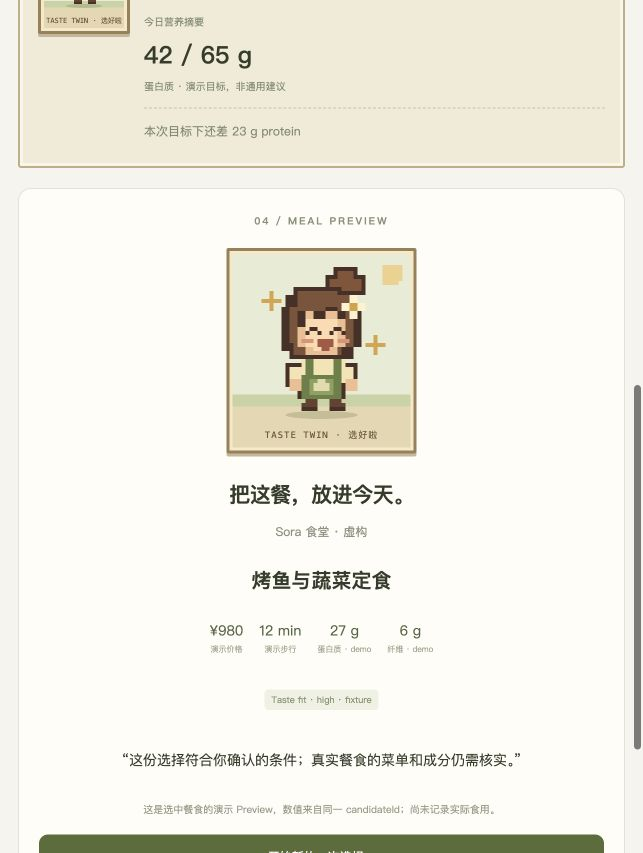
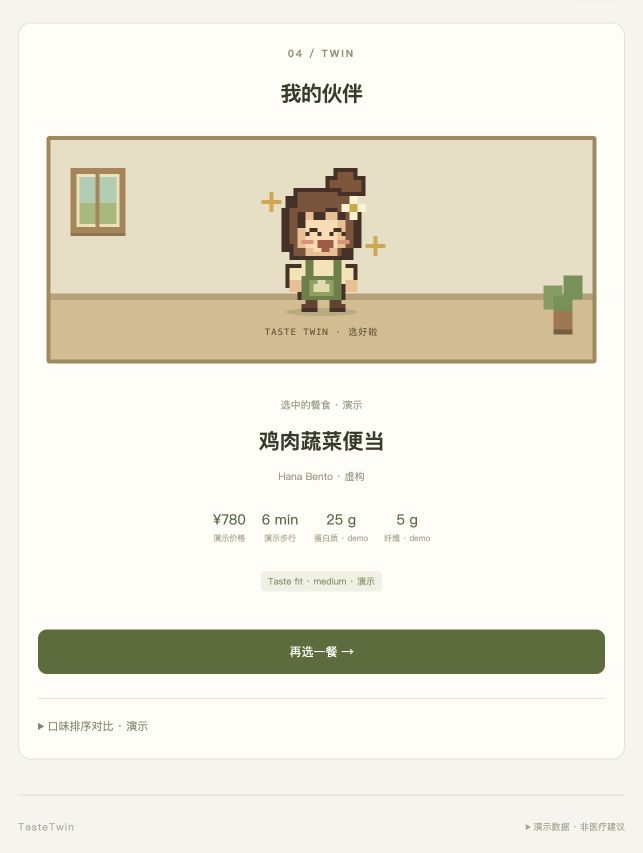
Replace guided landing with four interactive sections and concise product UI

diff --git a/apps/web/src/App.tsx b/apps/web/src/App.tsx
@@ -1,4 +1,4 @@
-import {useState, useRef} from 'react';
+import {useState, useRef, useEffect} from 'react';
 import {api} from './api';
 import type {ApiError, Interpretation, Results, Selection, Stage, Constraints} from './types';
 import MealRow, {MealFacts} from './components/MealRow';
@@ -10,6 +10,8 @@ function chips(c: Constraints) {
  return [...c.cuisines, ...c.ambience, ...(c.partySize ? [`${c.partySize} 人`] : []), ...(c.budgetMax ? [`≤ ${c.budgetMax} ${c.currency || '?'}`] : []), ...(c.maxWalkMinutes ? [`≤ ${c.maxWalkMinutes} min`] : []), ...(c.excludeSpicy ? ['不要辣'] : []), ...c.allergens.map(x=>`排除 ${x}`)];
 }
 export default function App() {
+ const [view,setView]=useState<'home'|'profile'|'today'|'discover'|'twin'>('home');
+ const [saved,setSaved]=useState('');
  const [sessionId,setSessionId]=useState(()=>crypto.randomUUID());
  const [message,setMessage]=useState(example);
  const [city,setCity]=useState('Tokyo');
@@ -55,31 +57,53 @@ export default function App() {
   await run('REFINING','REFINED',async()=>{setResults(await api<Results>('/api/refine',{sessionId,refinement:text}));setRefinement('');},()=>void refine(text));
  }
  async function select(candidateId: string) {
-  await run('SEARCHING','SELECTED',async()=>setSelection(await api<Selection>('/api/select',{sessionId,candidateId})),()=>void select(candidateId));
+  await run('SEARCHING','SELECTED',async()=>{setSelection(await api<Selection>('/api/select',{sessionId,candidateId}));setView('twin');},()=>void select(candidateId));
  }
  async function reset() {
   await run(stage,'START',async()=>{
     await api(`/api/sessions/${sessionId}`,undefined,'DELETE');
-    setSessionId(crypto.randomUUID());setParsed(null);setResults(null);setSelection(null);setRefinement('');setMessage(example);setCity('Tokyo');setAllergens('');setSummaryMode('fixture');setActual('42');setTarget('65');setEnabled(true);
+    setView('home');setSaved('');setSessionId(crypto.randomUUID());setParsed(null);setResults(null);setSelection(null);setRefinement('');setMessage(example);setCity('Tokyo');setAllergens('');setSummaryMode('fixture');setActual('42');setTarget('65');setEnabled(true);
   },()=>void reset());
  }
- const step=stage==='SELECTED'?4:['RESULTS','REFINED','REFINING'].includes(stage)?3:stage==='CONFIRM'||stage==='SEARCHING'?2:1;
- return <div className="shell">
-  <header className="topbar"><a className="brand" href="#top"><span className="brand-icon">✿</span>Taste<span>Twin</span><small>YOUR NEXT MEAL, MORE YOU.</small></a><div className="header-actions"><span className="mode">● {mode==='baseline'?'WITHOUT QLOO · FIXTURE CANDIDATES':'DESIGN PROTOTYPE · QLOO FIXTURE'}</span><button className="text-button" disabled={busy} onClick={()=>void reset()}>重新开始 ↺</button></div></header>
-  <main id="top">
-   <section className="hero"><div className="hero-copy"><p className="eyebrow">NUTRITION MATCH × TASTE MATCH</p><h1>下一餐，<br/>更合你的<span>心意。</span></h1><p className="intro">把今天想吃的、需要补充的，<br/>和愿意走的距离，放在同一次选择里。</p><a href="#flow" className="hero-link">从一句话开始 <span>↓</span></a><div className="hero-note">框架预览 · React + FastAPI<br/>Qloo 与 Agent 框架尚未连接</div></div><div className="hero-art"><img src="/tastetwin-hero.png" alt="TasteTwin 像素厨房中的数字伙伴与餐食"/><span className="art-caption">A small choice. A little closer to you.</span></div></section>
-   <div className="prototype-warning" role="note"><span>DEMO DATA</span><p>所有餐厅、菜单、营养、价格、步行与口味排序均为虚构 fixture。这个版本用于验证框架，尚不能作为真实 Qloo 集成提交。</p></div>
-   <nav className="steps" aria-label="流程进度">{['说说需求','确认条件','挑选下一餐','餐食 Preview'].map((label,i)=><div className={step===i+1?'active':''} aria-current={step===i+1?'step':undefined} key={label}><span>0{i+1}</span>{label}</div>)}</nav>
-   <div className="workspace" id="flow"><aside className="companion"><PixelTwin state={stage==='SELECTED'?'happy':busy?'thinking':'idle'}/><p className="eyebrow">YOUR TASTE COMPANION</p><h2>{stage==='SELECTED'?'选好啦。':'先找到，你愿意吃的一餐。'}</h2><p>{selection?.twinMessage || '先确认你的条件，再按营养、演示口味信号和便利性比较。未知数据会如实显示。'}</p><div className="sidebar-divider"/><small>今日营养摘要</small><strong>{summaryMode==='none'?'尚未提供':`${summaryMode==='fixture'?'42':actual} / ${summaryMode==='fixture'?'65':target} g`}</strong><p className="caption">蛋白质 · {summaryMode==='fixture'?'演示目标，非通用建议':summaryMode==='manual'?'用户手动输入':'仍可按口味和地点搜索'}</p>{parsed&&<p className="gap">{parsed.nutritionGap.level==='unavailable'?'营养缺口不可用':parsed.nutritionGap.nutrient==='none'?'接近本次配置目标':`本次目标下还差 ${parsed.nutritionGap.missingAmount} ${parsed.nutritionGap.unit} ${parsed.nutritionGap.nutrient}`}</p>}</aside>
-    <section className="flow-content" aria-live="polite">
-     {error&&<div className="error" role="alert"><strong>{error.message}</strong><small>{error.code} {error.requestId}</small><div>{error.retryable&&<button disabled={busy} onClick={()=>retry.current?.()}>重试</button>}<button disabled={busy} onClick={()=>{setError(null);setStage('START');}}>修改输入</button></div></div>}
-     {(stage==='START'||stage==='PARSING')&&<section className="panel"><p className="eyebrow">01 / TELL US WHAT YOU NEED</p><h2>今天，想吃点什么？</h2><p className="muted">菜系、预算、氛围和距离，都可以写在一句话里。</p><form onSubmit={e=>{e.preventDefault();void interpret();}}><label htmlFor="message">你的需求</label><textarea id="message" rows={4} value={message} maxLength={500} onChange={e=>setMessage(e.target.value)} disabled={busy} onKeyDown={e=>{if(e.key==='Enter'&&!e.shiftKey){e.preventDefault();void interpret();}}}/><div className="input-bottom"><button type="button" className="text-button" disabled={busy} onClick={()=>setMessage(example)}>使用示例句</button><small>{message.length}/500 · Shift + Enter 换行</small></div><div className="form-grid"><div><label htmlFor="city">搜索区域</label><input id="city" value={city} onChange={e=>setCity(e.target.value)} maxLength={80} disabled={busy}/><small>fixture 仅覆盖 Tokyo 虚构场景</small></div><div><label htmlFor="allergens">过敏原代码（逗号分隔）</label><input id="allergens" placeholder="例如 peanut, soy" value={allergens} onChange={e=>setAllergens(e.target.value)} disabled={busy}/><small>未知成分在有过敏限制时被排除</small></div></div><details className="nutrition-input"><summary>营养摘要与目标来源</summary><label htmlFor="summary">选择数据来源</label><select id="summary" value={summaryMode} onChange={e=>setSummaryMode(e.target.value as typeof summaryMode)} disabled={busy}><option value="fixture">Demo fixture：蛋白质 42 / 65 g</option><option value="manual">手动输入蛋白质日汇总</option><option value="none">暂不提供营养数据</option></select>{summaryMode==='manual'&&<div className="form-grid"><div><label htmlFor="actual">今日摄入（g）</label><input id="actual" type="number" min="0" step="any" value={actual} onChange={e=>setActual(e.target.value)} disabled={busy}/></div><div><label htmlFor="target">你的配置目标（g）</label><input id="target" type="number" min="0.01" step="any" value={target} onChange={e=>setTarget(e.target.value)} disabled={busy}/></div></div>}</details><button className="primary" disabled={busy||!message.trim()}>{stage==='PARSING'?'解析中…':'Ask TasteTwin →'}</button></form></section>}
-     {stage==='CONFIRM'&&parsed&&<section className="panel"><p className="eyebrow">02 / CHECK THE DETAILS</p><h2>我们理解得对吗？</h2><p className="confirmation">{parsed.confirmationText}</p><div className="chips">{chips(parsed.constraints).map(x=><span key={x}>{x}</span>)}</div><p className="caption">{parsed.notice}</p>{parsed.needsClarification&&<p className="clarification">{parsed.clarificationQuestion}。点「修改输入」补充后重新解析。</p>}<div className="actions"><button className="primary" disabled={busy||parsed.needsClarification} onClick={()=>void recommend()}>确认并查找 →</button><button disabled={busy} onClick={()=>setStage('START')}>修改输入</button></div></section>}
-     {(stage==='SEARCHING'||stage==='REFINING')&&<div className="loading" role="status"><PixelTwin state="thinking"/><h2>{stage==='REFINING'?'重新应用你的条件…':'正在处理…'}</h2><p>营养计算 · 成分过滤 · fixture 匹配 · 排序</p></div>}
-     {results&&['RESULTS','REFINED'].includes(stage)&&<section className="panel result-panel"><div className="result-heading"><div><p className="eyebrow">03 / YOUR NEXT MEAL</p><h2>{results.recommendations.length} 个可比较的选择</h2></div><label className="toggle"><input type="checkbox" checked={enabled} disabled={busy} onChange={e=>void recommend(e.target.checked)}/><span>演示口味信号 {enabled?'ON':'OFF'}</span></label></div><p className="caption">这是 fixture 的同候选集重排，用于预演未来的 Qloo ON / OFF 功能。</p><div className="chips">{activeConstraints&&chips(activeConstraints).map(x=><span key={x}>{x}</span>)}</div><div className="trace">{results.trace.map((x,i)=><span key={x.tool}>{i+1}. {x.tool} ✓</span>)}</div>{results.recommendations.length?results.recommendations.map(item=><MealRow key={item.candidateId} item={item} disabled={busy} onSelect={id=>void select(id)}/>):<div className="empty"><h3>还没有合适选项</h3><p>{results.emptyMessage}</p><button onClick={()=>setStage('START')} disabled={busy}>修改预算或距离</button></div>}<div className="refinement"><h3>再调整一下？</h3><div className="quick-actions">{['再近一点','更便宜','不要辣'].map(x=><button key={x} disabled={busy} onClick={()=>void refine(x)}>{x} ↗</button>)}</div><form onSubmit={e=>{e.preventDefault();void refine();}}><label className="sr-only" htmlFor="refinement">修正需求</label><input id="refinement" value={refinement} maxLength={200} placeholder="框架版支持：再近一点、更便宜、不要辣" disabled={busy} onChange={e=>setRefinement(e.target.value)}/><button disabled={busy||!refinement.trim()}>更新结果 →</button></form>{results.appliedChanges.length>0&&<p className="caption">已应用：{results.appliedChanges.map(x=>`${x.field}: ${String(x.from)} → ${String(x.to)}`).join('；')}</p>}</div><details className="judge"><summary>查看框架与同候选集比较</summary><p>{results.comparison.label}</p><p>ON：{results.comparison.withTaste.join(' → ')}</p><p>OFF：{results.comparison.withoutTaste.join(' → ')}</p><p>React → FastAPI → nutrition / safety / fixture adapter / ranker。当前规则工具轨迹不代表已接入 Agent 框架。</p></details></section>}
-     {stage==='SELECTED'&&selection&&<section className="panel preview"><p className="eyebrow">04 / MEAL PREVIEW</p><PixelTwin state="happy"/><h2>把这餐，放进今天。</h2><p className="muted">{selection.recommendation.placeName}</p><h3>{selection.recommendation.menuName}</h3><MealFacts item={selection.recommendation}/><p className="taste">Taste fit · {selection.recommendation.tasteFit} · fixture</p><p className="twin-message">“{selection.twinMessage}”</p><p className="caption">这是选中餐食的演示 Preview，数值来自同一 candidateId；尚未记录实际食用。</p><button className="primary" disabled={busy} onClick={()=>void reset()}>开始新的一次选择 ↺</button></section>}
-    </section></div>
-   <footer><strong>TasteTwin</strong><p>一般饮食与偏好辅助，不诊断疾病。演示会话仅保存在后端单进程内存中，1 小时过期；重新开始会删除会话。页面刷新不恢复输入。健康和过敏数据不会发给 Qloo；当前未调用外部 AI 服务。</p><span>LOCAL FRAMEWORK · v0.1</span></footer>
+
+ useEffect(()=>{window.scrollTo({top:0,behavior:'auto'});},[view]);
+ useEffect(()=>{setParsed(null);setResults(null);setSelection(null);setStage('START');},[city,allergens,summaryMode,actual,target]);
+ function saveSettings() {
+   if(summaryMode==='manual'&&(!actual.trim()||!target.trim()||!Number.isFinite(Number(actual))||!Number.isFinite(Number(target))||Number(actual)<0||Number(target)<=0)) {
+     setError({code:'VALIDATION_ERROR',message:'摄入须为非负数，目标须大于 0',retryable:false});return false;
+   }
+   setParsed(null);setResults(null);setSelection(null);setStage('START');setError(null);setSaved('已更新');return true;
+ }
+ const areas = [
+  {id:'profile' as const,num:'01',title:'你的口味',english:'YOU',icon:'sprout',hint:'偏好 · 地点'},
+  {id:'today' as const,num:'02',title:'今天的餐',english:'TODAY',icon:'bowl',hint:'摄入 · 营养'},
+  {id:'discover' as const,num:'03',title:'下一餐去哪里',english:'DISCOVER',icon:'map',hint:'搜索 · 推荐'},
+  {id:'twin' as const,num:'04',title:'我的伙伴',english:'TWIN',icon:'heart',hint:'小人 · 餐食预览'},
+ ];
+ function openArea(id: typeof view) {setView(id);setSaved('');setError(null);}
+ const errorPanel = error&&<div className="error" role="alert"><strong>{error.message}</strong><small>{error.code} {error.requestId}</small><div>{error.retryable&&<button disabled={busy} onClick={()=>retry.current?.()}>重试</button>}<button disabled={busy} onClick={()=>{setError(null);setStage('START');setView('discover');}}>修改需求</button></div></div>;
+ return <div className="shell interactive-shell">
+  <header className="topbar"><button className="brand brand-home" onClick={()=>openArea('home')} disabled={busy} aria-label="返回主界面"><span className="brand-icon">✿</span>Taste<span>Twin</span></button><div className="header-actions"><details className="data-status"><summary className="mode">● 演示数据{mode==='baseline'?' · 口味 OFF':''}</summary><div>餐厅、菜单、营养、价格、步行与口味信号均为虚构数据。Qloo 暂未连接。</div></details><button className="text-button" disabled={busy} onClick={()=>void reset()}>重置 ↺</button></div></header>
+  <main>
+   {view==='home'?<>
+    <section className="hero home-hero"><div className="hero-copy"><p className="eyebrow">NUTRITION MATCH × TASTE MATCH</p><h1>下一餐，<br/>更合你的<span>心意。</span></h1><p className="home-tagline">和你的伙伴，一起选餐。</p><button className="hero-start" onClick={()=>openArea('discover')}>找下一餐 ↗</button></div><div className="hero-art"><img src="/tastetwin-hero.png" alt="TasteTwin 像素厨房"/></div></section>
+    <nav className="area-cards" aria-label="四个功能区">{areas.map(area=><button key={area.id} className="area-card" onClick={()=>openArea(area.id)}><span className="area-number">{area.num} / {area.english}</span><span className={`pixel-area-icon pixel-area-icon--${area.icon}`} aria-hidden="true"/><h2>{area.title}</h2><span className="area-hint">{area.hint}</span><span className="area-arrow" aria-hidden="true">↗</span></button>)}</nav>
+   </>:<>
+    <div className="area-toolbar"><button className="text-button" disabled={busy} onClick={()=>openArea('home')}>← 主界面</button><nav aria-label="功能切换">{areas.map(area=><button key={area.id} className={view===area.id?'area-tab active':'area-tab'} aria-current={view===area.id?'page':undefined} disabled={busy} onClick={()=>openArea(area.id)}>{area.title}</button>)}</nav></div>
+    <div className="area-content">
+     {errorPanel}
+     {view==='profile'&&<section className="panel settings-panel"><div className="section-heading"><p className="eyebrow">01 / YOU</p><h2>你的口味</h2></div><div className="settings-grid"><div><label htmlFor="city">搜索区域</label><input id="city" value={city} onChange={e=>{setCity(e.target.value);setSaved('');}} maxLength={80}/><small className="caption">当前演示区域：Tokyo</small></div><div><label htmlFor="allergens">过敏原</label><input id="allergens" placeholder="peanut, soy" value={allergens} onChange={e=>{setAllergens(e.target.value);setSaved('');}}/><small className="caption">{allergens?'本次搜索会排除这些成分':'可不填'}</small></div></div><fieldset className="preference-group"><legend>菜系</legend><div className="preference-buttons">{['日式','意式','中餐'].map(x=><button type="button" key={x} aria-pressed={message.includes(x)} className={message.includes(x)?'active':''} onClick={()=>{setMessage(`我想吃${x}，安静，一个人，1000 日元以内，附近`);setSaved('');}}>{x}</button>)}</div></fieldset><fieldset className="preference-group"><legend>避免的成分</legend><div className="preference-buttons">{[['peanut','花生'],['milk','乳制品'],['egg','鸡蛋'],['soy','大豆'],['wheat','小麦'],['fish','鱼'],['shellfish','虾贝'],['sesame','芝麻']].map(([code,label])=>{const chosen=allergens.split(',').map(x=>x.trim()).filter(Boolean);return <button type="button" key={code} aria-pressed={chosen.includes(code)} className={chosen.includes(code)?'active':''} onClick={()=>{setAllergens((chosen.includes(code)?chosen.filter(x=>x!==code):[...chosen,code]).join(', '));setSaved('');}}>{label}</button>;})}</div></fieldset><div className="actions"><button className="primary" onClick={saveSettings}>保存设置 ✓</button><button onClick={()=>{if(saveSettings())setView('discover');}}>去选餐 →</button><span className="saved" role="status">{saved}</span></div></section>}
+     {view==='today'&&<section className="panel today-panel"><div className="section-heading"><p className="eyebrow">02 / TODAY</p><h2>今天的餐</h2></div><div className="nutrition-dashboard"><span>蛋白质</span><strong>{summaryMode==='none'?'—':summaryMode==='fixture'?42:actual}<small> / {summaryMode==='none'?'—':summaryMode==='fixture'?65:target} g</small></strong><progress aria-label="今日蛋白质摄入" value={summaryMode==='none'?0:summaryMode==='fixture'?42:Number(actual)||0} max={summaryMode==='fixture'?65:Math.max(1,Number(target)||1)}/><span className="caption">{summaryMode==='fixture'?'演示日汇总':summaryMode==='manual'?'手动日汇总':'未提供'}</span></div><label htmlFor="summary">营养记录</label><select id="summary" value={summaryMode} onChange={e=>{setSummaryMode(e.target.value as typeof summaryMode);setSaved('');}}><option value="fixture">使用演示日汇总</option><option value="manual">手动输入</option><option value="none">暂不提供</option></select>{summaryMode==='manual'&&<div className="settings-grid"><div><label htmlFor="actual">今日摄入（g）</label><input id="actual" type="number" min="0" step="any" value={actual} onChange={e=>{setActual(e.target.value);setSaved('');}}/></div><div><label htmlFor="target">配置目标（g）</label><input id="target" type="number" min="0.01" step="any" value={target} onChange={e=>{setTarget(e.target.value);setSaved('');}}/></div></div>}<div className="actions"><button className="primary" onClick={saveSettings}>更新今日记录 ✓</button><span className="saved" role="status">{saved}</span></div></section>}
+     {view==='discover'&&<section className="discover-area" aria-live="polite">
+      {(stage==='START'||stage==='PARSING'||stage==='SELECTED')&&<section className="panel"><p className="eyebrow">03 / DISCOVER</p><h2>下一餐去哪里</h2><form onSubmit={e=>{e.preventDefault();void interpret();}}><label className="sr-only" htmlFor="message">今天想吃什么</label><textarea id="message" rows={3} value={message} maxLength={500} placeholder="想吃什么？" onChange={e=>setMessage(e.target.value)} disabled={busy} onKeyDown={e=>{if(e.key==='Enter'&&!e.shiftKey){e.preventDefault();void interpret();}}}/><div className="input-bottom"><button type="button" className="text-button" disabled={busy} onClick={()=>setMessage(example)}>示例</button><small>{message.length}/500</small></div><div className="search-context"><button type="button" onClick={()=>openArea('profile')} disabled={busy}>⌖ {city||'选择区域'}</button><button type="button" onClick={()=>openArea('profile')} disabled={busy}>{allergens?'已设置过敏原':'设置偏好'}</button><button type="button" onClick={()=>openArea('today')} disabled={busy}>今日营养</button></div><button className="primary" disabled={busy||!message.trim()}>{stage==='PARSING'?'解析中…':'找下一餐 →'}</button></form></section>}
+      {stage==='CONFIRM'&&parsed&&<section className="panel"><h2>确认这次需求</h2><div className="chips">{chips(parsed.constraints).map(x=><span key={x}>{x}</span>)}</div>{parsed.nutritionGap.level!=='unavailable'&&parsed.nutritionGap.nutrient!=='none'&&<p className="caption">{parsed.nutritionGap.nutrient} · 当前目标下还差 {parsed.nutritionGap.missingAmount} {parsed.nutritionGap.unit}</p>}{parsed.needsClarification&&<p className="clarification">{parsed.clarificationQuestion}</p>}<div className="actions"><button className="primary" disabled={busy||parsed.needsClarification} onClick={()=>void recommend()}>确认并查找 →</button><button disabled={busy} onClick={()=>setStage('START')}>修改</button>{parsed.needsClarification&&<button onClick={()=>openArea('profile')}>设置区域</button>}</div></section>}
+      {(stage==='SEARCHING'||stage==='REFINING')&&<div className="loading" role="status"><PixelTwin state="thinking"/><h2>找找看…</h2></div>}
+      {results&&['RESULTS','REFINED'].includes(stage)&&<section className="panel result-panel"><div className="result-heading"><h2>{results.recommendations.length} 个选项</h2><label className="toggle"><input type="checkbox" checked={enabled} disabled={busy} onChange={e=>void recommend(e.target.checked)}/><span>演示口味 {enabled?'ON':'OFF'}</span></label></div><div className="chips">{activeConstraints&&chips(activeConstraints).map(x=><span key={x}>{x}</span>)}</div>{results.recommendations.length?results.recommendations.map(item=><MealRow key={item.candidateId} item={item} disabled={busy} onSelect={id=>void select(id)}/>):<div className="empty"><h3>没有合适选项</h3><p>{results.emptyMessage}</p><button onClick={()=>setStage('START')}>修改需求</button></div>}<div className="refinement"><div className="quick-actions">{['再近一点','更便宜','不要辣'].map(x=><button key={x} disabled={busy} onClick={()=>void refine(x)}>{x}</button>)}</div><form onSubmit={e=>{e.preventDefault();void refine();}}><label className="sr-only" htmlFor="refinement">修正需求</label><input id="refinement" value={refinement} maxLength={200} placeholder="再调整一下…" disabled={busy} onChange={e=>setRefinement(e.target.value)}/><button disabled={busy||!refinement.trim()}>更新 →</button></form></div></section>}
+     </section>}
+     {view==='twin'&&<section className="panel twin-panel"><p className="eyebrow">04 / TWIN</p><h2>我的伙伴</h2><div className="twin-room"><span className="room-window" aria-hidden="true"/><span className="room-plant" aria-hidden="true"/><PixelTwin state={selection?'happy':'idle'}/></div>{selection?<div className="twin-meal"><span className="caption">选中的餐食 · 演示</span><h3>{selection.recommendation.menuName}</h3><p className="caption">{selection.recommendation.placeName}</p><MealFacts item={selection.recommendation}/><span className="taste">Taste fit · {selection.recommendation.tasteFit} · 演示</span><div className="actions"><button className="primary" onClick={()=>openArea('discover')}>再选一餐 →</button></div></div>:<button className="primary" onClick={()=>openArea('discover')}>一起选餐 →</button>}{results&&<details className="judge"><summary>口味排序对比 · 演示</summary><p>ON：{results.comparison.withTaste.join(' → ')}</p><p>OFF：{results.comparison.withoutTaste.join(' → ')}</p></details>}</section>}
+    </div>
+   </>}
+   <footer className="quiet-footer"><span>TasteTwin</span><details><summary>演示数据 · 非医疗建议</summary><p>当前数据为虚构演示，Qloo 未连接。设置仅用于本次页面；推荐会话在后端内存中保留最多一小时，重置会删除会话。营养和过敏数据不传给 Qloo。</p></details></footer>
   </main>
  </div>;
 }

diff --git a/apps/web/src/styles.css b/apps/web/src/styles.css
@@ -2,3 +2,9 @@
 
 /* Original pixel farm companion; readable UI text remains in the system font. */
 .pixel-scene{width:100%;display:flex;flex-direction:column;align-items:center;position:relative;background:linear-gradient(#e7ebd3 0 72%,#c8d2a2 72% 78%,#e7d7b0 78%);border:3px solid #9a8054;border-radius:2px;box-shadow:inset 0 0 0 3px #f7e9c6,0 3px 0 #c5b898;padding:12px 12px 8px;margin:0 0 24px;isolation:isolate}.pixel-scene:before{content:"";position:absolute;right:15px;top:14px;width:16px;height:16px;background:#f0d18a;box-shadow:4px 0 #f0d18a,0 4px #f0d18a;z-index:-1}.pixel-twin{display:block;width:128px;height:160px;image-rendering:pixelated;overflow:visible}.pixel-name{font-family:ui-monospace,monospace;font-size:9px;letter-spacing:1px;color:#6c5737;margin-top:5px;line-height:1.6}.pixel-scene--thinking .pixel-character{animation:pixel-think 1.2s steps(2,end) infinite;transform-origin:16px 38px}.pixel-scene--happy .pixel-character{animation:pixel-celebrate .8s steps(2,end) 2}.preview>.pixel-scene,.loading>.pixel-scene{max-width:190px;margin:20px auto 26px}.companion{background:#f1ead7;border:2px solid #c0ae84;border-radius:3px;box-shadow:inset 0 0 0 3px #faf5e7}.companion .sidebar-divider{background:#d8caab}.companion .gap{border-top-color:#d2c2a2}@keyframes pixel-think{0%,100%{transform:translateY(0)}50%{transform:translateY(-1px)}}@keyframes pixel-celebrate{0%,100%{transform:translateY(0)}50%{transform:translateY(-2px)}}@media(max-width:700px){.companion>.pixel-scene{width:92px;padding:6px 4px 5px;grid-row:1/6;grid-column:1;margin:0;align-self:start}.companion{grid-template-columns:92px 1fr;column-gap:14px}.companion>.pixel-scene .pixel-twin{width:64px;height:80px}.companion>.pixel-scene .pixel-name{font-size:7px;letter-spacing:0;text-align:center}.companion>.pixel-scene:before{width:8px;height:8px;top:9px;right:9px}.companion .eyebrow,.companion h2{grid-column:2}.companion .eyebrow{font-size:7px}}@media(prefers-reduced-motion:reduce){.pixel-scene .pixel-character{animation:none}}
+
+.interactive-shell{max-width:1320px}.brand-home{border:0;background:none;padding:0;border-radius:0}.brand-home:hover{background:none}.data-status{position:relative}.data-status summary{list-style:none;cursor:pointer}.data-status summary::-webkit-details-marker{display:none}.data-status>div{position:absolute;z-index:20;right:0;top:40px;width:240px;font-size:11px;line-height:1.8;background:#fffdf6;border:1px solid #ded5bb;padding:14px;border-radius:7px;box-shadow:0 5px 20px #4a3e2510}.home-hero{margin:35px 0 32px;min-height:330px}.home-hero .hero-copy{padding-top:20px}.home-tagline{font-size:14px;color:#899077;margin:20px 0}.hero-start{border:0;border-bottom:1px solid #a7b490;border-radius:0;background:none;padding:10px 0;margin:8px 0 0;font-size:13px}.area-cards{display:grid;grid-template-columns:repeat(4,1fr);gap:18px;margin:30px 0 36px}.area-card{text-align:left;position:relative;background:#fffdf6;border:2px solid #d6c8a7;border-radius:4px;padding:21px 23px 24px;box-shadow:0 4px 0 #e0d3b6;transition:transform .15s,box-shadow .15s;min-height:180px}.area-card:nth-child(2){background:#f3f0e0}.area-card:nth-child(3){background:#eef2e4;border-color:#bbcba0;box-shadow:0 4px 0 #d3debf}.area-card:nth-child(4){background:#f7ece1;border-color:#d4bda0;box-shadow:0 4px 0 #e8d3be}.area-card:hover{transform:translateY(-4px);background:#faf8ec;box-shadow:0 8px 0 #e0d3b6}.area-card h2{font-size:19px;margin:15px 0 7px;font-weight:600}.area-number{display:block;font-size:8px;letter-spacing:1.5px;color:#93917d}.area-hint{font-size:11px;color:#9a9c88}.area-arrow{position:absolute;right:20px;bottom:23px;font-size:20px;color:#929d74}.pixel-area-icon{display:block;width:7px;height:7px;margin:27px 0 0 8px;background:#819558;image-rendering:pixelated}.pixel-area-icon--sprout{box-shadow:7px 0 #819558,0 7px #819558,7px 7px #819558,14px 14px #667b45,14px 21px #667b45,21px 7px #9baa6c,28px 7px #9baa6c,21px 14px #9baa6c}.pixel-area-icon--bowl{background:#b68146;box-shadow:7px 0 #b68146,14px 0 #b68146,21px 0 #b68146,0 7px #d8b57c,7px 7px #eee2b9,14px 7px #eee2b9,21px 7px #d8b57c,7px 14px #b68146,14px 14px #b68146,7px -7px #a4b175,14px -7px #a4b175}.pixel-area-icon--map{background:#b1bc8b;box-shadow:7px 0 #e2d5a4,14px 0 #b1bc8b,21px 0 #e2d5a4,0 7px #b1bc8b,7px 7px #e2d5a4,14px 7px #b1bc8b,21px 7px #e2d5a4,0 14px #b1bc8b,7px 14px #e2d5a4,14px 14px #b1bc8b,21px 14px #e2d5a4,7px -7px #ac674a,7px 0 #ac674a}.pixel-area-icon--heart{background:#c88973;box-shadow:7px 0 #c88973,21px 0 #c88973,28px 0 #c88973,0 7px #c88973,7px 7px #c88973,14px 7px #c88973,21px 7px #c88973,28px 7px #c88973,7px 14px #c88973,14px 14px #c88973,21px 14px #c88973,14px 21px #c88973}.area-toolbar{display:flex;align-items:center;justify-content:space-between;gap:15px;margin:25px 0}.area-toolbar nav{display:flex;gap:5px}.area-tab{background:none;border:0;font-size:12px;color:#939b87;padding:9px 14px}.area-tab.active{background:#e7eddb;color:#566c39}.area-content{max-width:930px;margin:35px auto 50px;min-height:430px}.area-content .panel{padding:32px}.area-content textarea{margin-top:22px}.settings-grid{display:grid;grid-template-columns:1fr 1fr;gap:24px}.preference-group{border:0;padding:0;margin:25px 0}.preference-group legend{font-size:11px;margin-bottom:12px}.preference-buttons{display:flex;flex-wrap:wrap;gap:9px}.preference-buttons button{font-size:12px;padding:9px 18px}.preference-buttons .active{background:#e5edd5;border-color:#a7ba89}.saved{font-size:11px;color:#7a9056;align-self:center}.nutrition-dashboard{background:#f0f3e5;padding:25px;border-radius:8px;margin:22px 0;display:flex;flex-direction:column;gap:10px}.nutrition-dashboard>span{font-size:12px}.nutrition-dashboard strong{font-size:34px;font-weight:500}.nutrition-dashboard strong small{font-size:15px;color:#9aab86}.nutrition-dashboard progress{width:100%;height:10px;accent-color:#7c9254}.search-context{display:flex;gap:8px;margin:18px 0 25px}.search-context button{background:#f0f3e8;font-size:11px;border:0;padding:7px 12px}.twin-panel{text-align:center}.twin-room{position:relative;background:linear-gradient(#e8dfc3 0 70%,#baa074 70% 73%,#d7bc8e 73%);border:4px solid #a4885a;border-radius:3px;max-width:550px;margin:28px auto;min-height:250px;display:flex;align-items:flex-end;justify-content:center;overflow:hidden}.twin-room .pixel-scene{width:190px;background:none;border:0;box-shadow:none;padding:20px 10px;margin:0}.twin-room .pixel-scene:before{display:none}.twin-room .pixel-twin{width:128px;height:160px}.room-window{position:absolute;top:30px;left:35px;width:80px;height:80px;background:linear-gradient(#abcdb4 55%,#a7b977 55%);border:8px solid #aa8553;box-shadow:0 3px #947148,inset 0 0 0 3px #efe1b7}.room-window:after{content:'';position:absolute;left:29px;top:0;height:64px;width:6px;background:#aa8553}.room-plant{position:absolute;right:36px;bottom:30px;width:26px;height:32px;background:#a5764c;border-bottom:5px solid #785d3f;box-shadow:0 -15px #719253,-10px -25px #819d5d,10px -35px #719253}.twin-meal h3{font-size:21px;margin:12px 0}.twin-meal .facts{justify-content:center;margin:24px 0}.twin-meal .actions{justify-content:center}.twin-panel .judge{text-align:left}.quiet-footer{justify-content:space-between;align-items:center;margin-top:30px;gap:20px}.quiet-footer>span{margin:0;font-size:10px;letter-spacing:1px}.quiet-footer details{position:relative}.quiet-footer summary{font-size:9px;color:#a1a591}.quiet-footer details p{position:absolute;bottom:25px;right:0;width:280px;background:#fffdf6;border:1px solid #ddd9c7;border-radius:6px;padding:14px;z-index:5}.interactive-shell .meal h3{margin-bottom:15px}@media(max-width:900px){.area-cards{gap:12px}.area-card{padding:18px 16px}.area-card h2{font-size:16px}.area-arrow{right:12px}}@media(max-width:700px){.home-hero{margin-top:25px;gap:23px}.home-hero .hero-copy{padding:0}.home-hero .hero-art{height:205px}.home-hero h1{font-size:35px}.home-tagline{font-size:12px;margin:13px 0}.area-cards{grid-template-columns:1fr 1fr;gap:14px;margin:22px 0}.area-card{min-height:163px;padding:16px}.area-card h2{font-size:16px}.area-number{font-size:7px;letter-spacing:1px}.area-hint{font-size:10px}.area-arrow{font-size:17px;bottom:20px}.area-toolbar{flex-direction:column;align-items:start;gap:12px;margin:20px 0}.area-toolbar nav{width:100%;justify-content:space-between;gap:0}.area-tab{padding:8px;font-size:10px}.area-content{margin:22px 0 35px;min-height:350px}.area-content .panel{padding:23px 19px}.settings-grid{grid-template-columns:1fr;gap:7px}.search-context{flex-wrap:wrap}.twin-room{min-height:220px}.room-window{left:20px;top:28px;width:55px;height:65px;border-width:6px}.room-window:after{left:19px;height:53px;width:4px}.room-plant{right:20px;bottom:25px;width:19px;height:24px}.twin-room .pixel-scene{width:150px}.quiet-footer{margin-bottom:18px}.quiet-footer details p{width:250px}}@media(prefers-reduced-motion:reduce){.area-card{transition:none}}
+
+.area-card .pixel-area-icon{margin-bottom:23px}.area-card{min-height:200px}@media(max-width:700px){.area-card{min-height:182px}}
+
+.home-hero h1 span{white-space:nowrap}

diff --git a/apps/web/src/components/MealRow.tsx b/apps/web/src/components/MealRow.tsx
@@ -3,5 +3,5 @@ export function MealFacts({item}: {item: Recommendation}) {
   return <div className="facts"><span>¥{item.price} <small>演示价格</small></span><span>{item.walkMinutes} min <small>演示步行</small></span><span>{item.nutritionContribution.proteinG == null ? '未提供' : `${item.nutritionContribution.proteinG} g`} <small>蛋白质 · demo</small></span><span>{item.nutritionContribution.fiberG == null ? '未提供' : `${item.nutritionContribution.fiberG} g`} <small>纤维 · demo</small></span></div>;
 }
 export default function MealRow({item,disabled,onSelect}: {item:Recommendation;disabled:boolean;onSelect:(id:string)=>void}) {
- return <article className="meal"><div className="meal-rank">{String(item.rank).padStart(2,'0')}</div><div className="meal-main"><div className="meal-heading"><div><small>{item.placeName}</small><h3>{item.menuName}</h3></div><span className="taste">Taste fit · {item.tasteFit} {item.tasteFit !== 'unavailable' && '(fixture)'}</span></div><MealFacts item={item}/><ul className="reasons">{item.reason.map(reason=><li key={reason}>{reason}</li>)}</ul><details><summary>数据来源与成分</summary><p>地点 / 菜单 / 营养 / 价格 / 步行：全部 fixture，虚构数据 · {item.provenance.observedAt}</p><p>{item.allergenStatus === 'unknown' ? '成分未知，请核实；不能视为安全。' : `演示成分信息：${item.allergens.join(', ')}。仅用于验证过滤逻辑。`}</p></details></div><button disabled={disabled} onClick={()=>onSelect(item.candidateId)} className="choose">选择这餐 ↗</button></article>;
+ return <article className="meal"><div className="meal-rank">{String(item.rank).padStart(2,'0')}</div><div className="meal-main"><div className="meal-heading"><div><small>{item.placeName}</small><h3>{item.menuName}</h3></div><span className="taste">口味 · {item.tasteFit === 'high' ? '高' : item.tasteFit === 'medium' ? '中' : item.tasteFit === 'low' ? '低' : '未提供'}</span></div><MealFacts item={item}/><details><summary>成分与来源</summary><p>地点 / 菜单 / 营养 / 价格 / 步行：全部 fixture，虚构数据 · {item.provenance.observedAt}</p><p>{item.allergenStatus === 'unknown' ? '成分未知，请核实；不能视为安全。' : `演示成分信息：${item.allergens.join(', ')}。仅用于验证过滤逻辑。`}</p></details></div><button disabled={disabled} onClick={()=>onSelect(item.candidateId)} className="choose">选择这餐 ↗</button></article>;
 }

diff --git a/docs/ARCHITECTURE.zh-CN.md b/docs/ARCHITECTURE.zh-CN.md
@@ -1,5 +1,7 @@
 # TasteTwin 网站架构与今天的开发范围
 
+当前用户指定的交互是主界面加四个卡片入口：你的口味、今天的餐、下一餐去哪里、我的伙伴。点击卡片才展开功能区；需求确认和推荐流程只在 Discover 内执行，选餐后进入 Twin。架构和开发说明不进入主要产品界面。
+
 今天的交付是可本地运行的前后端框架：React + TypeScript + Vite 负责页面，Python + FastAPI 负责结构化需求、会话、确定性营养计算、安全过滤和排序。先用明确标注的虚构数据跑通主流程，之后逐个替换真实服务。目标部署为 Vercel 前端 + Render 后端。
 
 ## 设计资料的取舍
@@ -10,11 +12,11 @@
 | --- | --- | --- |
 | PRD v1.0 | 产品价值、文化口味与营养的分工、来源与过敏边界 | 多页面、档案、长期学习延后 |
 | PRD v1.2 | 工具职责、错误恢复、Qloo 证据、公开 Demo 验收 | 旧蛇形命名接口和旧权重不混入新接口 |
-| 输入输出规格 v3.0 | 输入→确认→推荐→修正→选择；三种 dataMode；Preview 字段 | 本次主流程优先采用它，需团队最终冻结 |
+| 输入输出规格 v3.0 | Discover 内的输入→确认→推荐→修正→选择；三种 dataMode；Twin 的 Preview 字段 | 本次主流程优先采用它，需团队最终冻结 |
 | index.html | 了解原型页面和交互意图 | 其中写死推荐、口味分数、七日健康变化不当成实现 |
 | 用户提供的 PNG | 品牌氛围：像素厨房、自然绿色与温暖背景 | 作为首页素材，使用权由团队在公开提交前核实 |
 
-v3.0 明确允许调整视觉和布局，所以框架采用单页连续流程，避免四个独立入口之间的数据割裂。旧稿存在“无强制线性解锁”和新稿“先确认再搜索”的差异；这里的确认是保护本次查询准确性的步骤，不是功能付费或账号解锁。
+依据用户的明确修正，框架采用四卡片独立入口，在 React 中共享偏好、当日营养和本次推荐状态。主页面的四个入口不要求按序完成。旧稿存在“无强制线性解锁”和新稿“先确认再搜索”的差异；这里的确认是保护本次查询准确性的步骤，不是功能付费或账号解锁。
 
 营养示例也有冲突：42/65≈0.646，按 0.70/0.90 阈值应为 high_gap；部分示例标 medium。代码以确定性公式为准。排序采用 v3.0 建议权重，放在 ranking.py 中，不混用 v1.2 的四项权重。
 
@@ -39,7 +41,7 @@ flowchart TD
 
 ### 前端
 
-页面只负责输入、确认、请求状态、来源标识、展示推荐和用户选择。排序、营养计算、过敏规则不写在 React。当前 TypeScript 类型在 src/types.ts，API 调用封装在 api.ts，餐食行与五项事实展示单独成组件。
+页面分 home / profile / today / discover / twin 五个视图。页面只负责输入、确认、请求状态、来源标识、展示推荐和用户选择。排序、营养计算、过敏规则不写在 React。当前 TypeScript 类型在 src/types.ts，API 调用封装在 api.ts，餐食行与五项事实展示单独成组件。
 
 状态为 START → PARSING → CONFIRM → SEARCHING → RESULTS → REFINING → REFINED → SELECTED。空结果作为 RESULTS/REFINED 的内容状态，错误作为保留上一安全状态的面板。所有异步操作使用按钮禁用和同步锁；超时 15 秒，可重试或修改。
 

diff --git a/docs/VERIFICATION.md b/docs/VERIFICATION.md
@@ -15,3 +15,5 @@ Verified locally on 2026-10-09 (Asia/Tokyo), Node 22.22.0 and Python 3.14.6.
 A dependency warning reports httpx TestClient deprecation; no test failures. Cloud deployment, Python 3.12 deployment runtime, live Qloo requests/401/429/timeouts, model parsing, map estimates, English UI and real-menu provenance are not yet verified. requirements.lock.txt records the complete local dependency versions; requirements.txt pins direct dependencies.
 
 Pixel companion update: TypeScript/Vite build passed; browser verified idle and selected happy SVG states through the full recommendation flow. Thinking and happy CSS animations respect prefers-reduced-motion.
+
+Four-section interaction update: homepage shows four card buttons with no inline function panels. Browser verified You → peanut selection/save → Today → Discover; peanut appears in confirmation; three results refine to two at 10 minutes; meal selection opens Twin with the same meal values. Returning home preserves page-session settings. 375 px homepage reports scrollWidth=clientWidth=375. Architecture/developer trace text is absent from the main product view; fixture status remains accessible.

diff --git a/README.md b/README.md
@@ -43,7 +43,7 @@ npm run build
 npm run test
 ```
 
-Default flow: Ask TasteTwin → confirm → three meals → taste toggle → 再近一点 → two meals → select → Preview. Explicit allergy codes: peanut, soy, milk, egg, wheat, fish, shellfish, sesame. The parser is limited and deterministic; always review the confirmation. The UI currently uses Chinese; an English judge flow is a later release task.
+Home has four clickable sections: You (preferences), Today (nutrition summary), Discover (search and recommendations), and Twin (pixel companion and selected meal). The four sections share page-session state. In Discover: 找下一餐 → confirm → three meals → taste toggle → 再近一点 → two meals → select → Twin Preview. Explicit allergy codes: peanut, soy, milk, egg, wheat, fish, shellfish, sesame. The parser is limited and deterministic; always review the confirmation. The UI currently uses Chinese; an English judge flow is a later release task.
 
 ## Demo mode versus live mode
 
